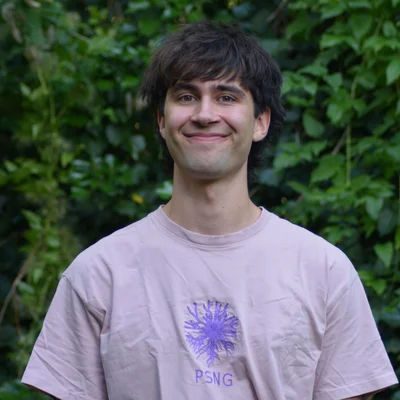
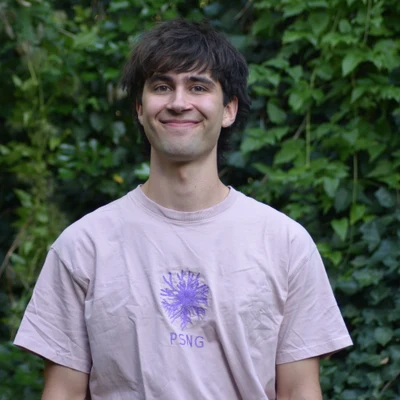
Update team portraits and events default

diff --git a/src/components/EventsSection.tsx b/src/components/EventsSection.tsx
@@ -710,7 +710,7 @@ const EventsSection = () => {
     }
   }, []);
 
-  const tab: Tab = tabParam === "vergangen" ? "vergangen" : hashTab ?? "kommend";
+  const tab: Tab = tabParam === "kommend" ? "kommend" : hashTab ?? "vergangen";
 
   const selectTab = (next: Tab) => {
     setHashTab(null);
